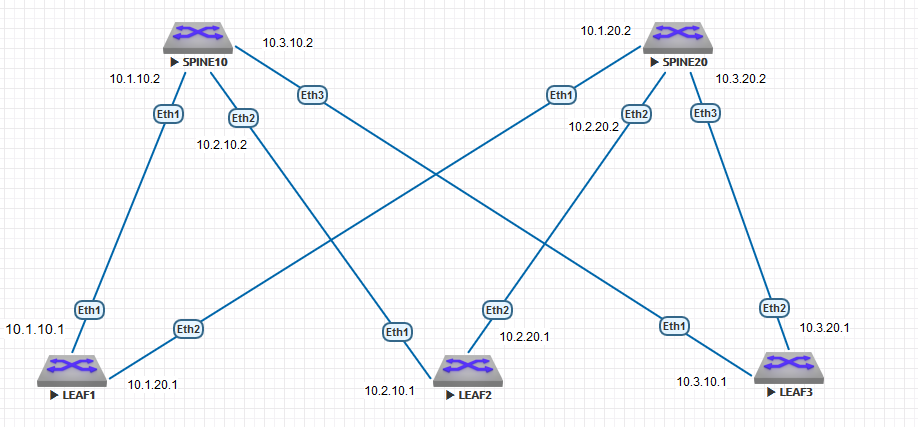
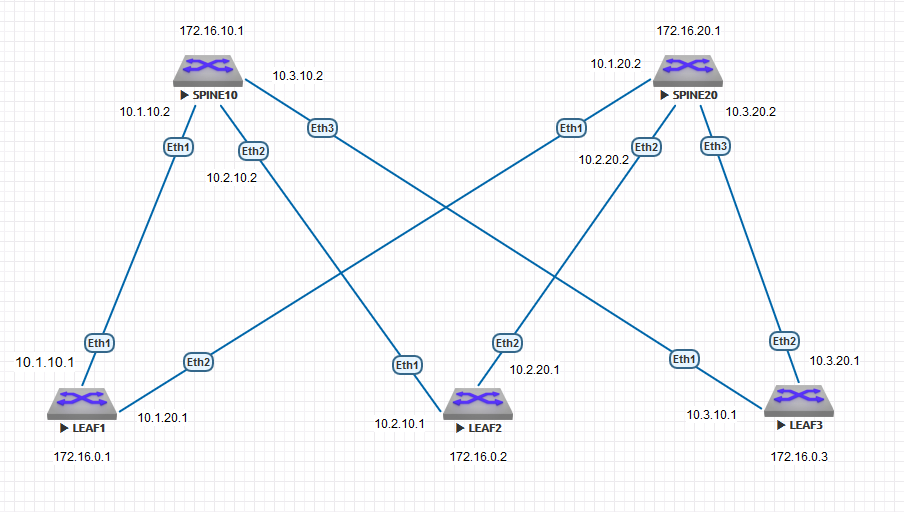
home5-2

diff --git a/home5/README.md b/home5/README.md
@@ -1,8 +1,3 @@
-### Вопрос:
-В лекции, на стенде с OSPF ещё были сделаны интерфейсы loopback на роутерах.
-
-Я так и не понял, для чего они нужны в фабрике и обязательно ли их делать в этом домашнем задании?
-
 ### Соединительные сети для OSPF:
 10.1.10.0/30
 
@@ -63,11 +58,16 @@ interface Ethernet7
 !
 interface Ethernet8
 !
+interface Loopback0
+   ip address 172.16.0.1/32
+   ip ospf area 0.0.0.0
+!
 interface Management1
 !
 ip routing
 !
 router ospf 1
+   router-id 172.16.0.1
    max-lsa 12000
 !
 end
@@ -116,11 +116,16 @@ interface Ethernet7
 !
 interface Ethernet8
 !
+interface Loopback0
+   ip address 172.16.0.2/32
+   ip ospf area 0.0.0.0
+!
 interface Management1
 !
 ip routing
 !
 router ospf 1
+   router-id 172.16.0.2
    max-lsa 12000
 !
 end
@@ -169,11 +174,16 @@ interface Ethernet7
 !
 interface Ethernet8
 !
+interface Loopback0
+   ip address 172.16.0.3/32
+   ip ospf area 0.0.0.0
+!
 interface Management1
 !
 ip routing
 !
 router ospf 1
+   router-id 172.16.0.3
    max-lsa 12000
 !
 end
@@ -227,13 +237,15 @@ interface Ethernet7
 interface Ethernet8
 !
 interface Loopback0
-   ip address 2.2.2.2/32
+   ip address 172.16.10.1/32
+   ip ospf area 0.0.0.0
 !
 interface Management1
 !
 ip routing
 !
 router ospf 1
+   router-id 172.16.10.1
    max-lsa 12000
 !
 end
@@ -286,24 +298,175 @@ interface Ethernet7
 !
 interface Ethernet8
 !
+interface Loopback0
+   ip address 172.16.20.1/32
+   ip ospf area 0.0.0.0
+!
 interface Management1
 !
 ip routing
 !
 router ospf 1
+   router-id 172.16.20.1
    max-lsa 12000
 !
 end
 
 ```
 
-#### Пинги со SPINE20 до LEAF1 Eth1 (на всякий случай):
+### show ip ospf neighbor
+
+#### LEAF1
 ```
-spine20#ping 10.1.10.1
-PING 10.1.10.1 (10.1.10.1) 72(100) bytes of data.
-80 bytes from 10.1.10.1: icmp_seq=1 ttl=64 time=17.6 ms
-80 bytes from 10.1.10.1: icmp_seq=2 ttl=64 time=14.4 ms
-80 bytes from 10.1.10.1: icmp_seq=3 ttl=64 time=13.2 ms
-80 bytes from 10.1.10.1: icmp_seq=4 ttl=64 time=12.9 ms
-80 bytes from 10.1.10.1: icmp_seq=5 ttl=64 time=9.90 ms
+Neighbor ID     Instance VRF      Pri State                  Dead Time   Address         Interface
+172.16.10.1     1        default  0   FULL                   00:00:37    10.1.10.2       Ethernet1
+172.16.20.1     1        default  0   FULL                   00:00:34    10.1.20.2       Ethernet2
+```
+#### LEAF2
+```
+Neighbor ID     Instance VRF      Pri State                  Dead Time   Address         Interface
+172.16.20.1     1        default  0   FULL                   00:00:36    10.2.20.2       Ethernet2
+172.16.10.1     1        default  0   FULL                   00:00:38    10.2.10.2       Ethernet1
+```
+#### LEAF3
+```
+Neighbor ID     Instance VRF      Pri State                  Dead Time   Address         Interface
+172.16.20.1     1        default  0   FULL                   00:00:35    10.3.20.2       Ethernet2
+172.16.10.1     1        default  0   FULL                   00:00:30    10.3.10.2       Ethernet1
+```
+#### SPINE10
+```
+Neighbor ID     Instance VRF      Pri State                  Dead Time   Address         Interface
+172.16.0.2      1        default  0   FULL                   00:00:29    10.2.10.1       Ethernet2
+172.16.0.1      1        default  0   FULL                   00:00:31    10.1.10.1       Ethernet1
+172.16.0.3      1        default  0   FULL                   00:00:29    10.3.10.1       Ethernet3
+```
+#### SPINE20
+```
+Neighbor ID     Instance VRF      Pri State                  Dead Time   Address         Interface
+172.16.0.2      1        default  0   FULL                   00:00:29    10.2.20.1       Ethernet2
+172.16.0.3      1        default  0   FULL                   00:00:38    10.3.20.1       Ethernet3
+172.16.0.1      1        default  0   FULL                   00:00:38    10.1.20.1       Ethernet1
+```
+
+### show ip route ospf
+
+#### LEAF1
+```
+ O        10.2.10.0/30 [110/20] via 10.1.10.2, Ethernet1
+ O        10.2.20.0/30 [110/20] via 10.1.20.2, Ethernet2
+ O        10.3.10.0/30 [110/20] via 10.1.10.2, Ethernet1
+ O        10.3.20.0/30 [110/20] via 10.1.20.2, Ethernet2
+ O        172.16.0.2/32 [110/30] via 10.1.10.2, Ethernet1
+                                 via 10.1.20.2, Ethernet2
+ O        172.16.0.3/32 [110/30] via 10.1.10.2, Ethernet1
+                                 via 10.1.20.2, Ethernet2
+ O        172.16.10.1/32 [110/20] via 10.1.10.2, Ethernet1
+ O        172.16.20.1/32 [110/20] via 10.1.20.2, Ethernet2
+```
+#### LEAF2
+```
+ O        10.1.10.0/30 [110/20] via 10.2.10.2, Ethernet1
+ O        10.1.20.0/30 [110/20] via 10.2.20.2, Ethernet2
+ O        10.3.10.0/30 [110/20] via 10.2.10.2, Ethernet1
+ O        10.3.20.0/30 [110/20] via 10.2.20.2, Ethernet2
+ O        172.16.0.1/32 [110/30] via 10.2.10.2, Ethernet1
+                                 via 10.2.20.2, Ethernet2
+ O        172.16.0.3/32 [110/30] via 10.2.10.2, Ethernet1
+                                 via 10.2.20.2, Ethernet2
+ O        172.16.10.1/32 [110/20] via 10.2.10.2, Ethernet1
+ O        172.16.20.1/32 [110/20] via 10.2.20.2, Ethernet2
+```
+#### LEAF3
+```
+ O        10.1.10.0/30 [110/20] via 10.3.10.2, Ethernet1
+ O        10.1.20.0/30 [110/20] via 10.3.20.2, Ethernet2
+ O        10.2.10.0/30 [110/20] via 10.3.10.2, Ethernet1
+ O        10.2.20.0/30 [110/20] via 10.3.20.2, Ethernet2
+ O        172.16.0.1/32 [110/30] via 10.3.10.2, Ethernet1
+                                 via 10.3.20.2, Ethernet2
+ O        172.16.0.2/32 [110/30] via 10.3.10.2, Ethernet1
+                                 via 10.3.20.2, Ethernet2
+ O        172.16.10.1/32 [110/20] via 10.3.10.2, Ethernet1
+ O        172.16.20.1/32 [110/20] via 10.3.20.2, Ethernet2
+```
+#### SPINE10
+```
+ O        10.1.20.0/30 [110/20] via 10.1.10.1, Ethernet1
+ O        10.2.20.0/30 [110/20] via 10.2.10.1, Ethernet2
+ O        10.3.20.0/30 [110/20] via 10.3.10.1, Ethernet3
+ O        172.16.0.1/32 [110/20] via 10.1.10.1, Ethernet1
+ O        172.16.0.2/32 [110/20] via 10.2.10.1, Ethernet2
+ O        172.16.0.3/32 [110/20] via 10.3.10.1, Ethernet3
+ O        172.16.20.1/32 [110/30] via 10.1.10.1, Ethernet1
+                                  via 10.2.10.1, Ethernet2
+                                  via 10.3.10.1, Ethernet3
+```
+#### SPINE20
+```
+ O        10.1.10.0/30 [110/20] via 10.1.20.1, Ethernet1
+ O        10.2.10.0/30 [110/20] via 10.2.20.1, Ethernet2
+ O        10.3.10.0/30 [110/20] via 10.3.20.1, Ethernet3
+ O        172.16.0.1/32 [110/20] via 10.1.20.1, Ethernet1
+ O        172.16.0.2/32 [110/20] via 10.2.20.1, Ethernet2
+ O        172.16.0.3/32 [110/20] via 10.3.20.1, Ethernet3
+ O        172.16.10.1/32 [110/30] via 10.1.20.1, Ethernet1
+                                  via 10.2.20.1, Ethernet2
+                                  via 10.3.20.1, Ethernet3
+```
+
+### ping
+
+#### ВСЕ УСТРОЙСТВА С LEAF1
+```
+ leaf1#ping 172.16.10.1
+PING 172.16.10.1 (172.16.10.1) 72(100) bytes of data.
+80 bytes from 172.16.10.1: icmp_seq=1 ttl=64 time=13.5 ms
+80 bytes from 172.16.10.1: icmp_seq=2 ttl=64 time=12.2 ms
+80 bytes from 172.16.10.1: icmp_seq=3 ttl=64 time=7.41 ms
+80 bytes from 172.16.10.1: icmp_seq=4 ttl=64 time=8.21 ms
+80 bytes from 172.16.10.1: icmp_seq=5 ttl=64 time=7.74 ms
+
+--- 172.16.10.1 ping statistics ---
+5 packets transmitted, 5 received, 0% packet loss, time 74ms
+rtt min/avg/max/mdev = 7.417/9.836/13.579/2.558 ms, ipg/ewma 18.653/11.560 ms
+=======================================
+
+leaf1#ping 172.16.20.1
+PING 172.16.20.1 (172.16.20.1) 72(100) bytes of data.
+80 bytes from 172.16.20.1: icmp_seq=1 ttl=64 time=15.0 ms
+80 bytes from 172.16.20.1: icmp_seq=2 ttl=64 time=16.7 ms
+80 bytes from 172.16.20.1: icmp_seq=3 ttl=64 time=13.1 ms
+80 bytes from 172.16.20.1: icmp_seq=4 ttl=64 time=8.20 ms
+80 bytes from 172.16.20.1: icmp_seq=5 ttl=64 time=8.67 ms
+
+--- 172.16.20.1 ping statistics ---
+5 packets transmitted, 5 received, 0% packet loss, time 65ms
+rtt min/avg/max/mdev = 8.201/12.346/16.715/3.393 ms, ipg/ewma 16.465/13.448 ms
+=======================================
+
+leaf1#ping 172.16.0.2
+PING 172.16.0.2 (172.16.0.2) 72(100) bytes of data.
+80 bytes from 172.16.0.2: icmp_seq=1 ttl=63 time=77.0 ms
+80 bytes from 172.16.0.2: icmp_seq=2 ttl=63 time=96.5 ms
+80 bytes from 172.16.0.2: icmp_seq=3 ttl=63 time=94.1 ms
+80 bytes from 172.16.0.2: icmp_seq=4 ttl=63 time=91.8 ms
+80 bytes from 172.16.0.2: icmp_seq=5 ttl=63 time=86.3 ms
+
+--- 172.16.0.2 ping statistics ---
+5 packets transmitted, 5 received, 0% packet loss, time 50ms
+rtt min/avg/max/mdev = 77.011/89.167/96.583/6.972 ms, pipe 5, ipg/ewma 12.609/83.068 ms
+leaf1#ping 172.16.0.3
+=======================================
+
+PING 172.16.0.3 (172.16.0.3) 72(100) bytes of data.
+80 bytes from 172.16.0.3: icmp_seq=1 ttl=63 time=23.7 ms
+80 bytes from 172.16.0.3: icmp_seq=2 ttl=63 time=20.4 ms
+80 bytes from 172.16.0.3: icmp_seq=3 ttl=63 time=26.1 ms
+80 bytes from 172.16.0.3: icmp_seq=4 ttl=63 time=25.6 ms
+80 bytes from 172.16.0.3: icmp_seq=5 ttl=63 time=32.9 ms
+
+--- 172.16.0.3 ping statistics ---
+5 packets transmitted, 5 received, 0% packet loss, time 96ms
+rtt min/avg/max/mdev = 20.476/25.791/32.970/4.104 ms, pipe 2, ipg/ewma 24.220/25.068 ms
 ```
